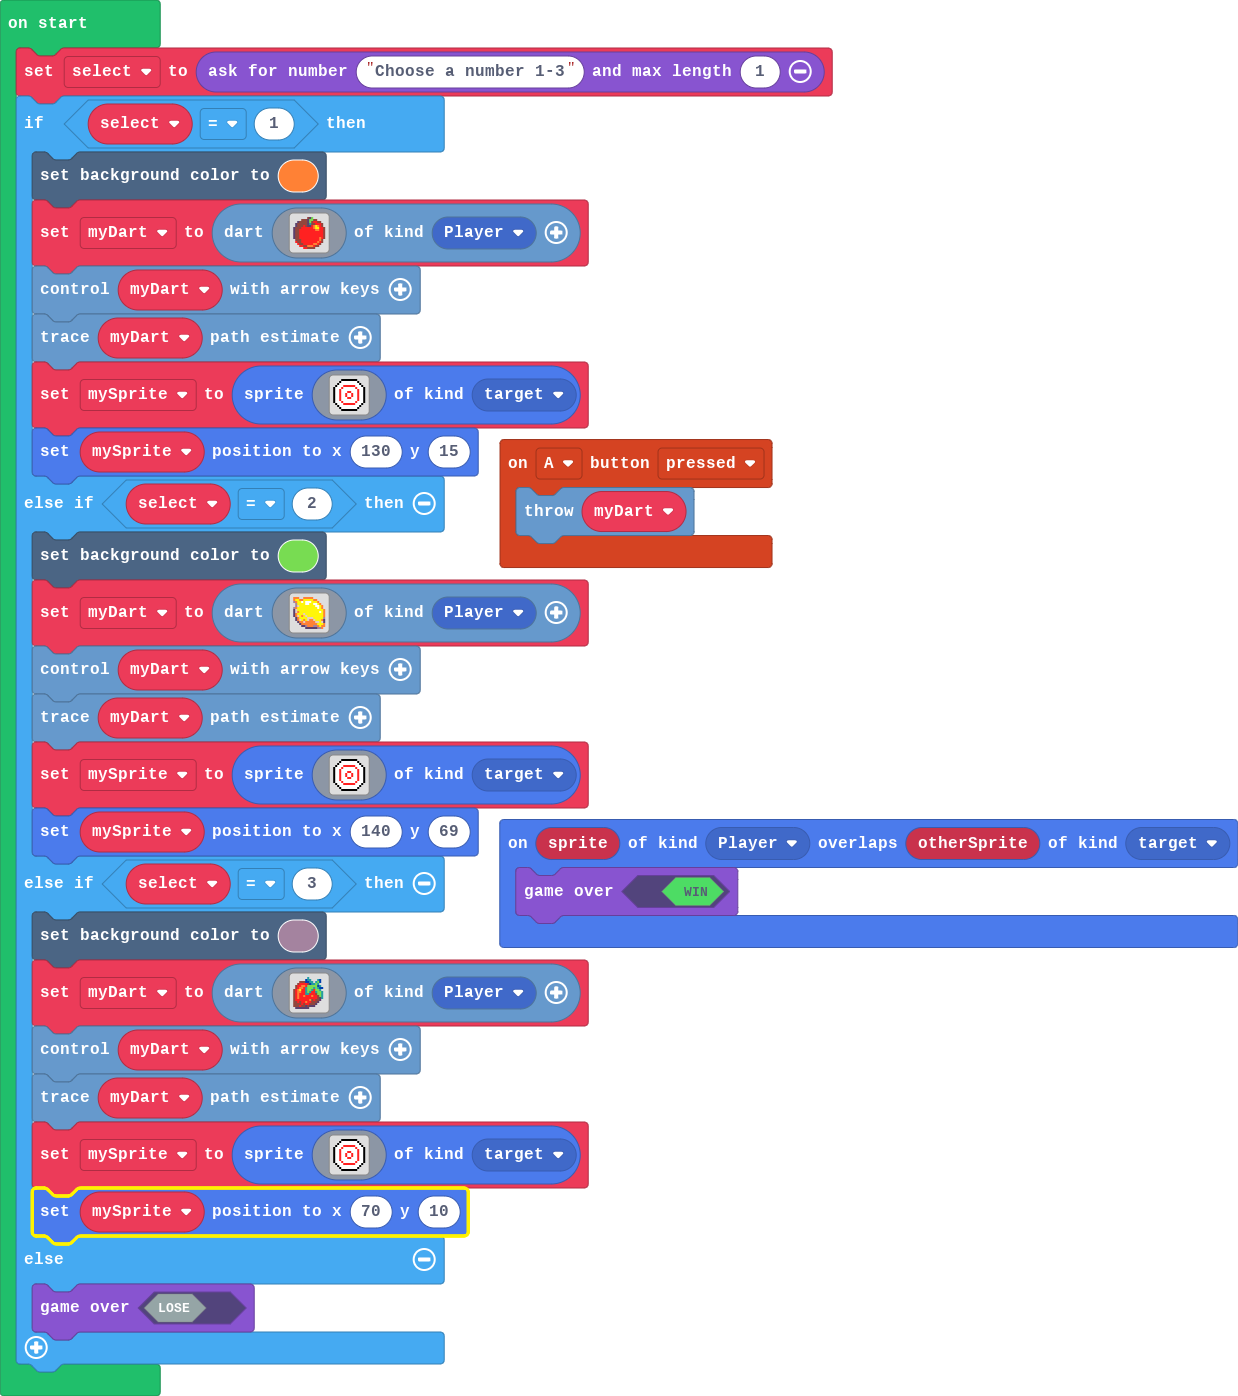
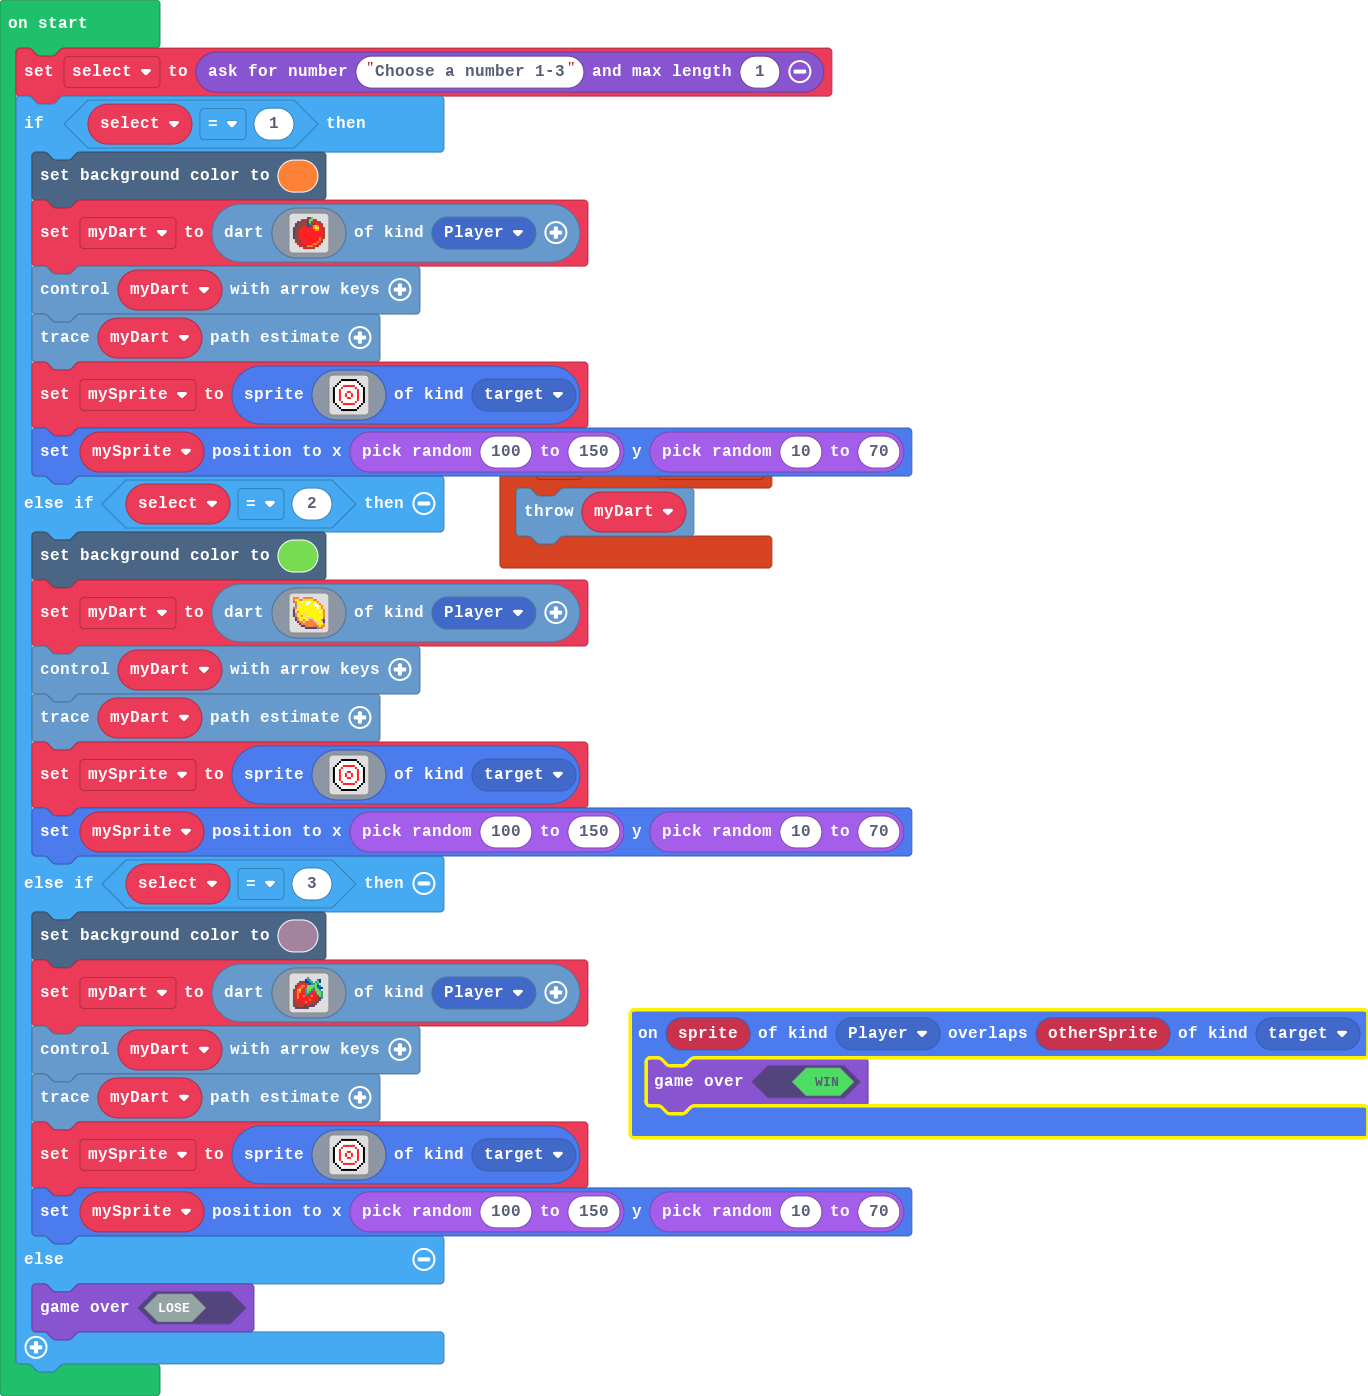
Update main.blocks, main.ts

Changed region(s): [[0.0, 0.0, 1.0, 0.9857], [0.3069, 0.9549, 0.3683, 0.9857], [0.0921, 0.9857, 0.1535, 1.0]]

diff --git a/main.ts b/main.ts
@@ -50,7 +50,7 @@ if (select == 1) {
         . . . f 1 1 1 1 1 1 1 1 f . . . 
         . . . . f f f f f f f f . . . . 
         `, SpriteKind.target)
-    mySprite.setPosition(130, 15)
+    mySprite.setPosition(randint(100, 150), randint(10, 70))
 } else if (select == 2) {
     scene.setBackgroundColor(7)
     myDart = darts.create(img`
@@ -91,7 +91,7 @@ if (select == 1) {
         . . . f 1 1 1 1 1 1 1 1 f . . . 
         . . . . f f f f f f f f . . . . 
         `, SpriteKind.target)
-    mySprite.setPosition(140, 69)
+    mySprite.setPosition(randint(100, 150), randint(10, 70))
 } else if (select == 3) {
     scene.setBackgroundColor(11)
     myDart = darts.create(img`
@@ -132,7 +132,7 @@ if (select == 1) {
         . . . f 1 1 1 1 1 1 1 1 f . . . 
         . . . . f f f f f f f f . . . . 
         `, SpriteKind.target)
-    mySprite.setPosition(70, 10)
+    mySprite.setPosition(randint(100, 150), randint(10, 70))
 } else {
     game.gameOver(false)
 }
